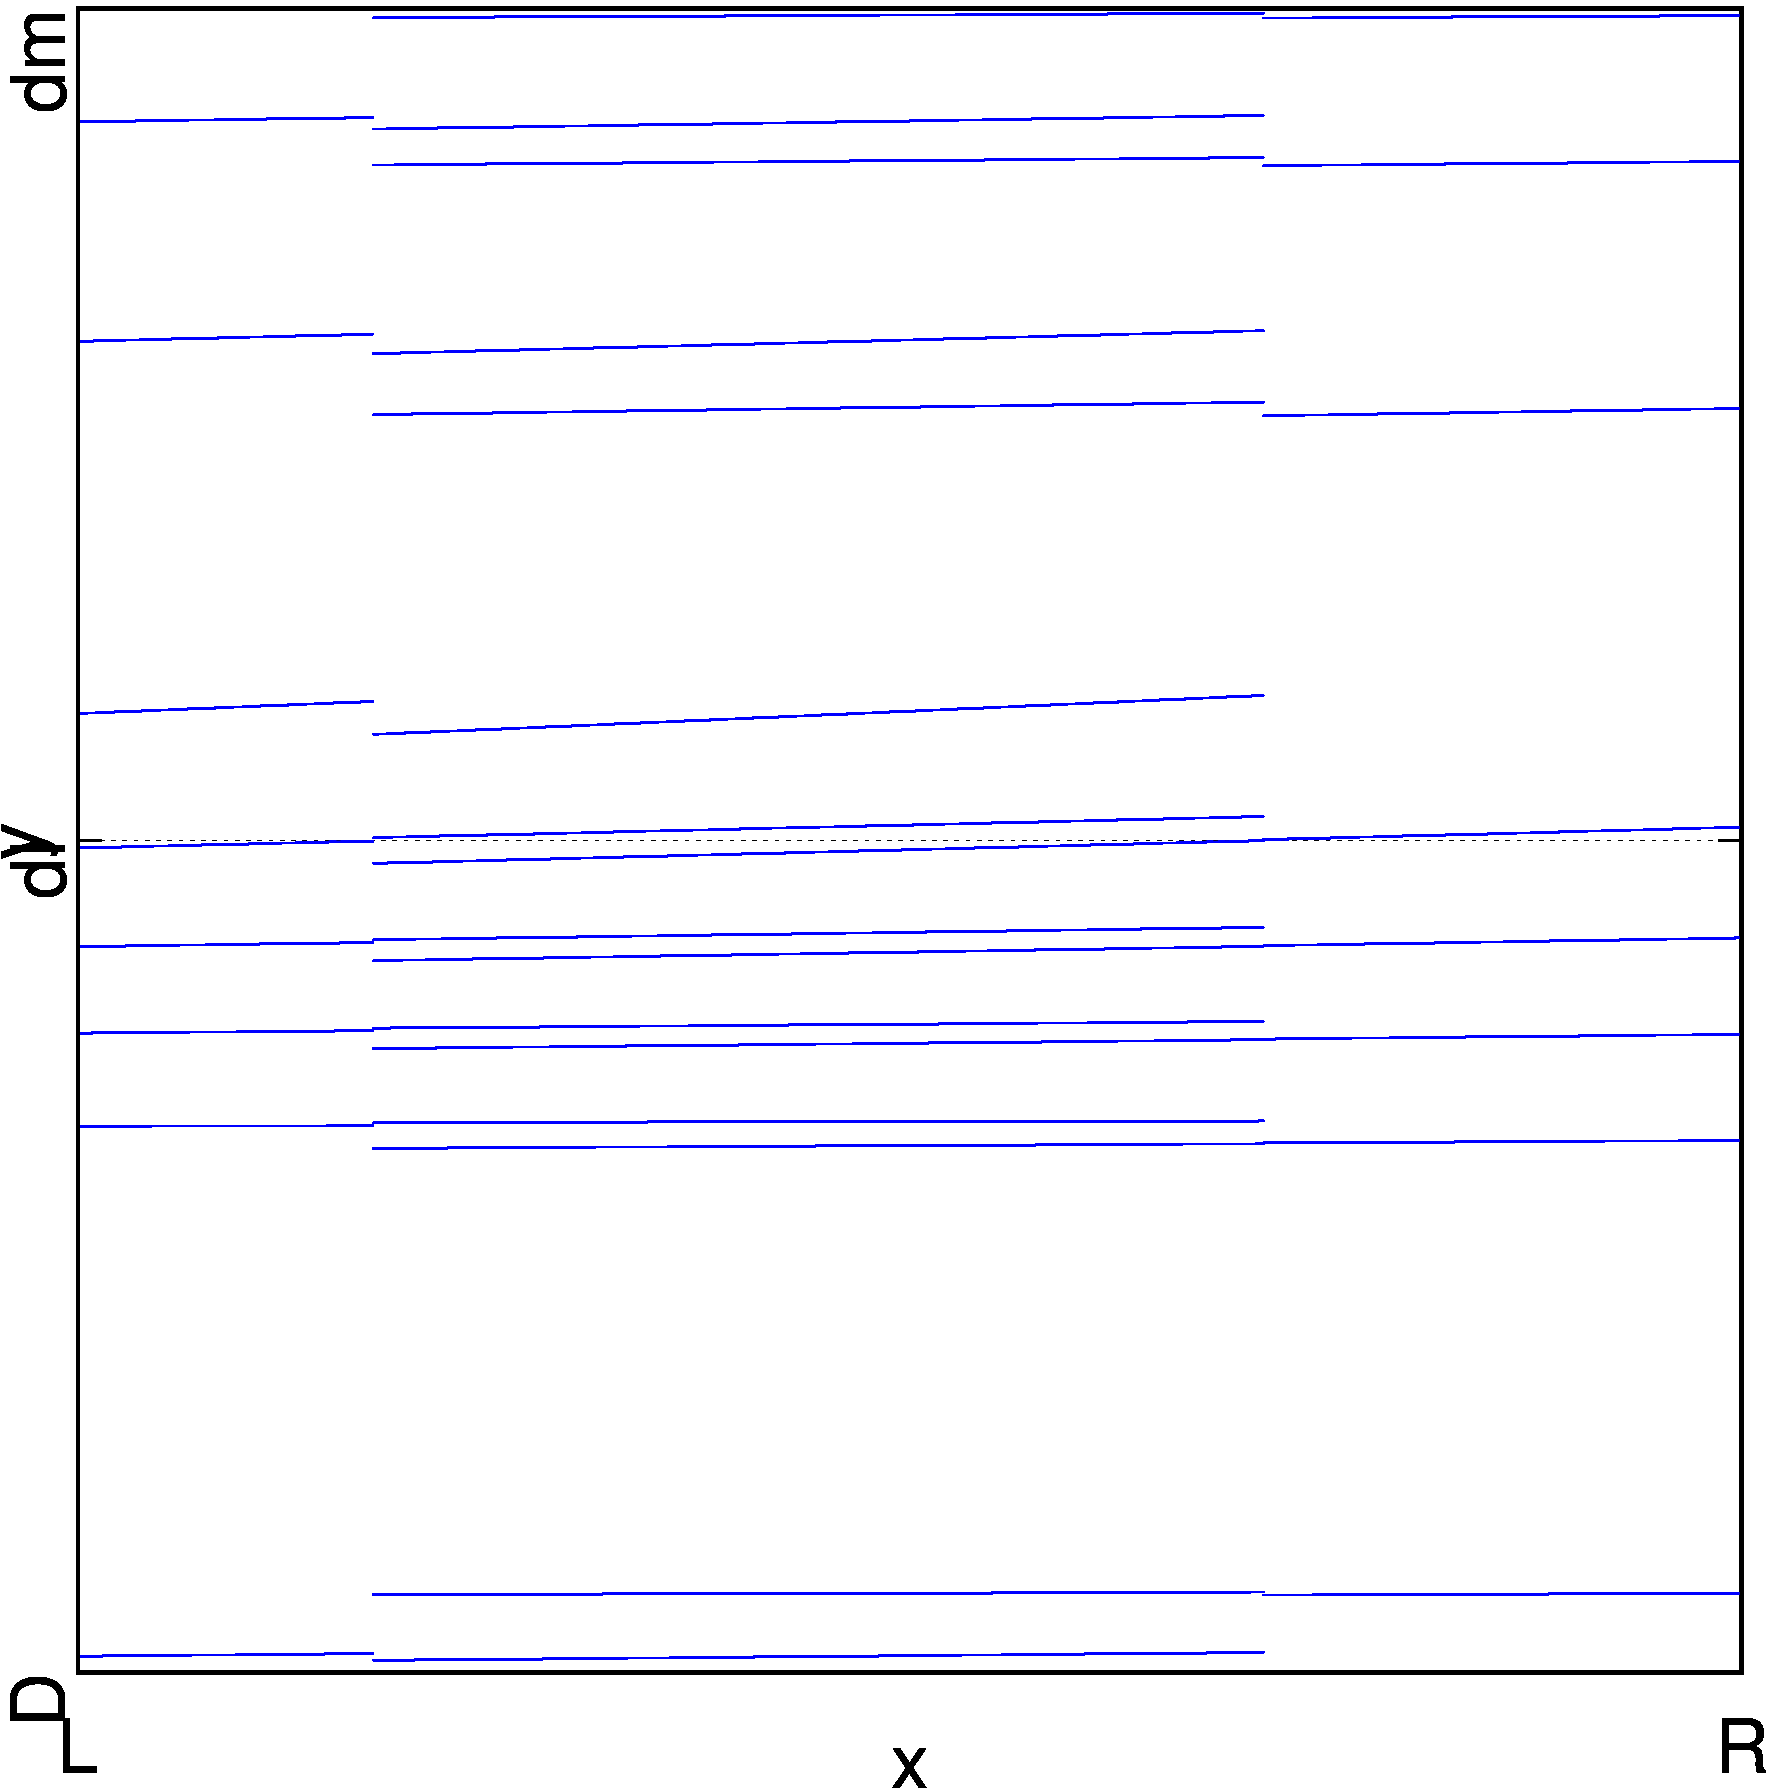
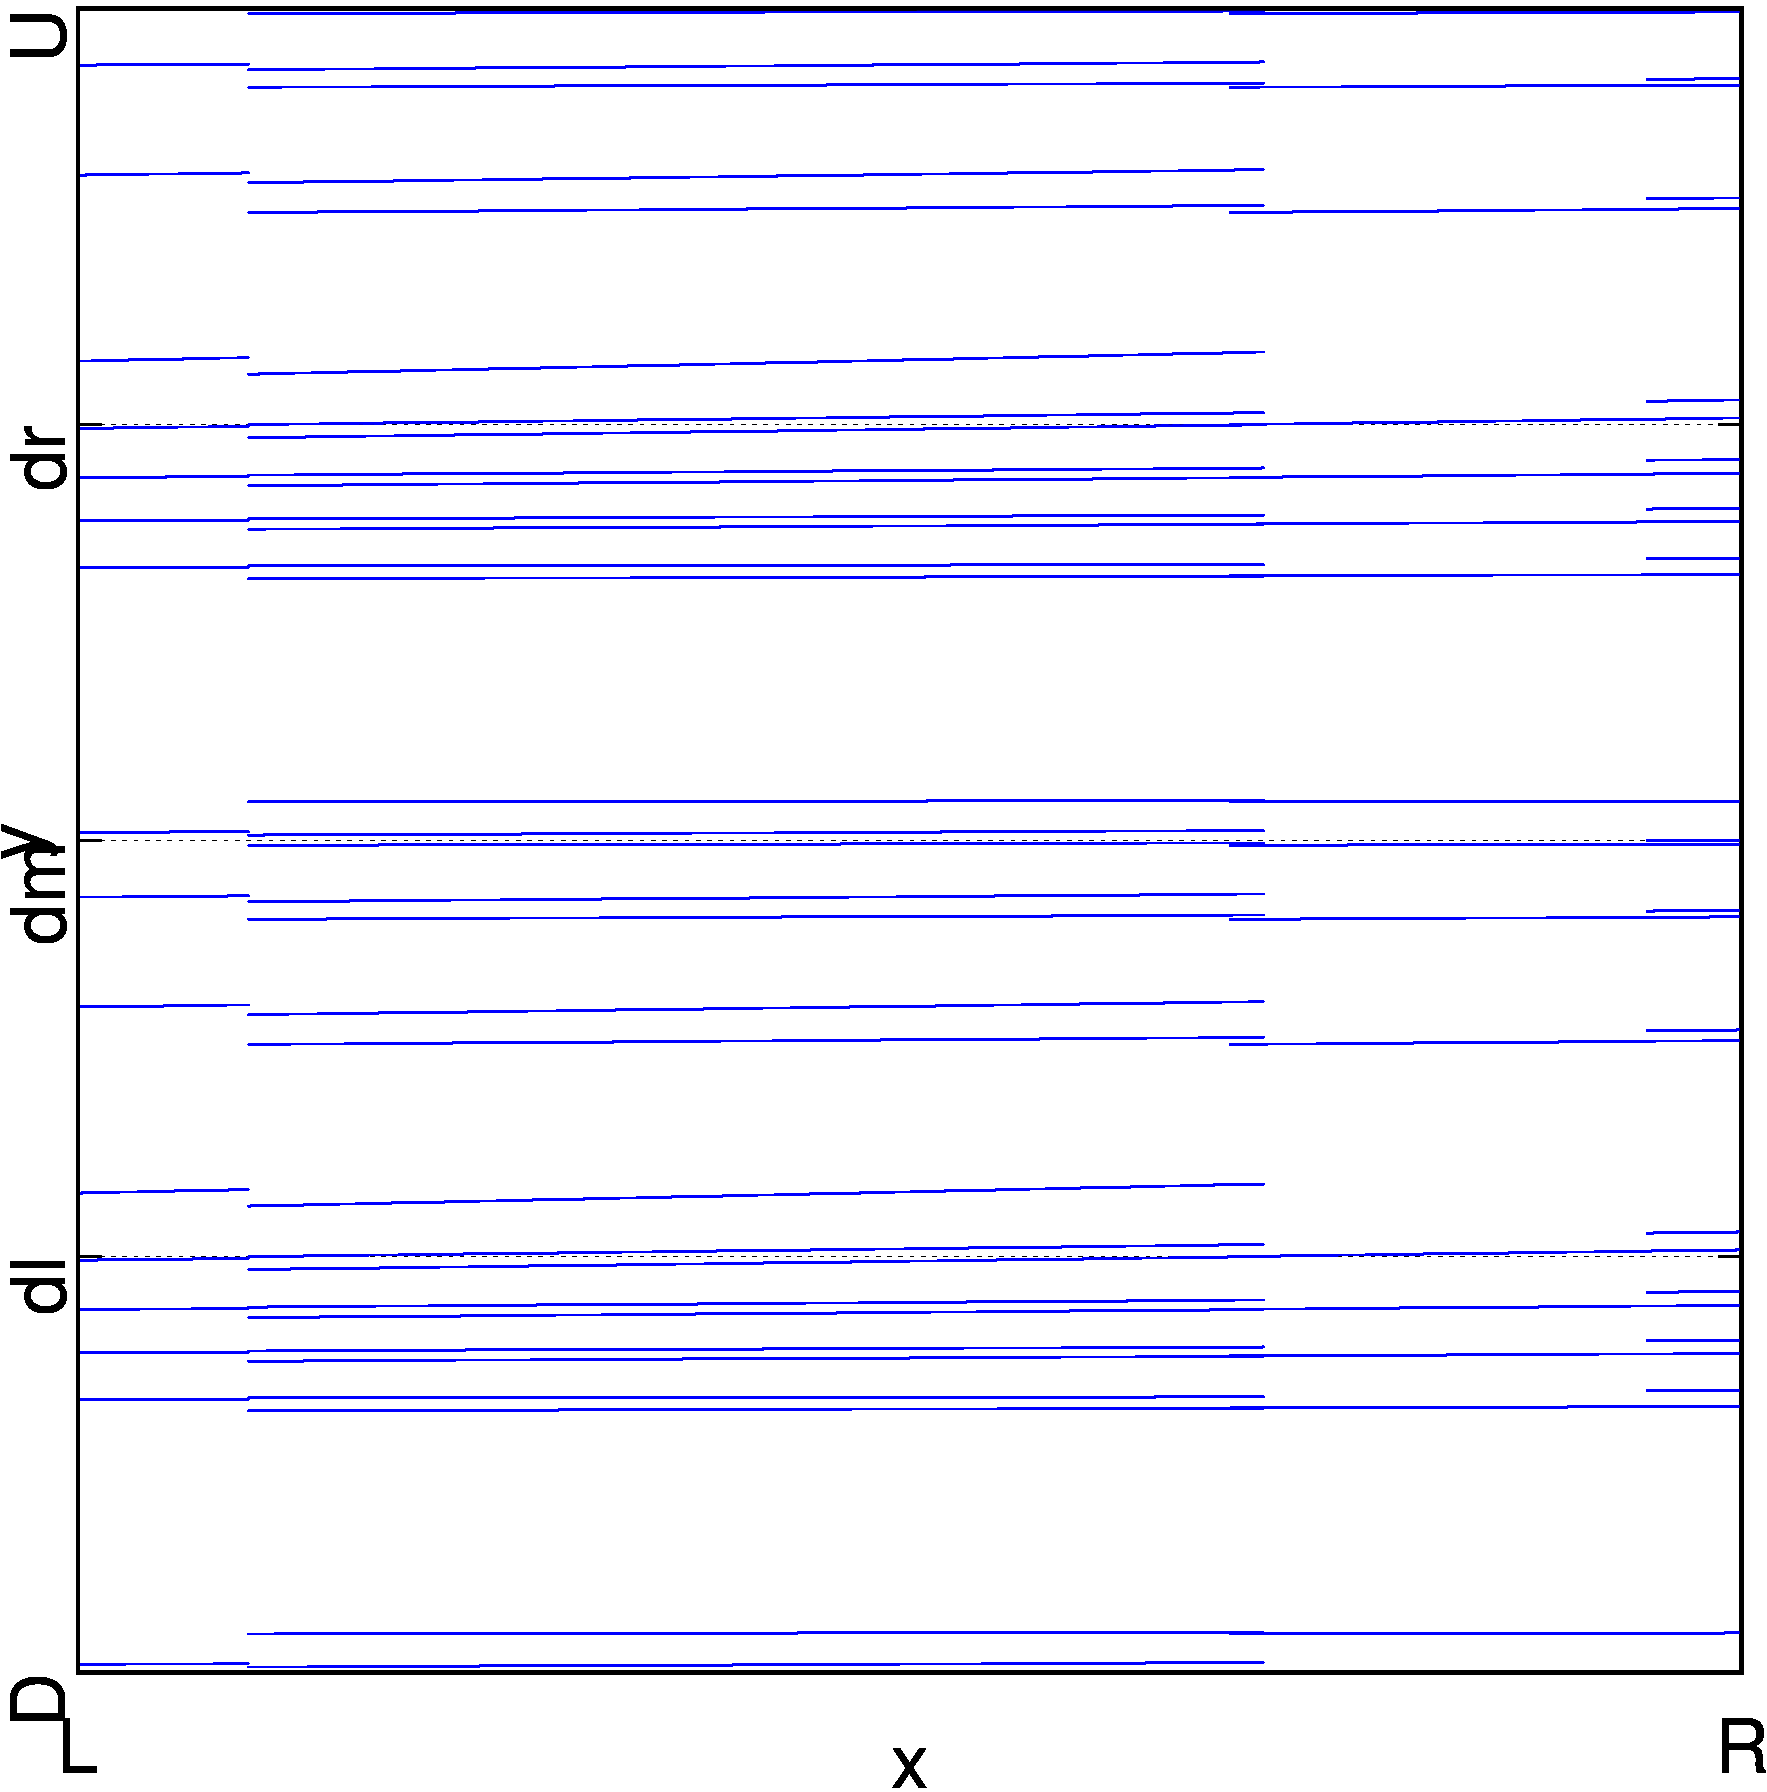
add bifurcation diagreams for lower border of C16

diff --git a/Report/Sections/60_FinalModel/50_bifurcations.tex b/Report/Sections/60_FinalModel/50_bifurcations.tex
@@ -1,0 +1,42 @@
+\section{Bifurcations}
+
+
+\begin{figure}
+    \centering
+    \begin{subfigure}{0.4\textwidth}
+        \centering
+        \includegraphics[width=\textwidth]{60_Final/2D_Regions_Whole/result-halved.png}
+        \caption{Complete Parameter Region}
+        \label{fig:final.regions.whole.halved}
+    \end{subfigure}
+    \begin{subfigure}{0.4\textwidth}
+        \centering
+        \includegraphics[width=\textwidth]{60_Final/2D_Regions_CandD16/result-halved.png}
+        \caption{Only showing $C_{16}$ and $D_{16}$}
+        \label{fig:final.regions.CandD16.halved}
+    \end{subfigure}
+    \caption{2D Period Regions of Halved Final Model}
+\end{figure}
+
+\todo{what bifurcations (which borders) in type A / type B regions}
+
+\subsection{Type A Parameter Regions}
+
+\subsubsection{$C_{16}^\downarrow$}
+
+\begin{figure}
+    \centering
+    \begin{subfigure}{0.4\textwidth}
+        \centering
+        \includegraphics[width=\textwidth]{60_Final/1D_Bif_LCD16/result.png}
+        \caption{Complete}
+        \label{fig:final.regions.whole.halved}
+    \end{subfigure}
+    \begin{subfigure}{0.4\textwidth}
+        \centering
+        \includegraphics[width=\textwidth]{60_Final/1D_Bif_LCD16_Zoomed/result.png}
+        \caption{Zoomed in to Border $\A\B$}
+        \label{fig:final.regions.CandD16.halved}
+    \end{subfigure}
+    \caption{1D Bifurcation Diagram of $C_{16}^\downarrow$}
+\end{figure}

diff --git a/Report/Sections/60_FinalModel/00_final_model.tex b/Report/Sections/60_FinalModel/00_final_model.tex
@@ -1,6 +1,24 @@
 \chapter{Final Model}
 
-\todo{model definition}
+\input{Sections/60_FinalModel/10_definition.tex}
+
+
+\begin{figure}
+    \centering
+    \begin{subfigure}{0.4\textwidth}
+        \centering
+        \includegraphics[width=\textwidth]{60_Final/2D_Period_Whole_onlyP16/result.png}
+        \caption{Full Model}
+        \label{fig:final.period.whole.full}
+    \end{subfigure}
+    \begin{subfigure}{0.4\textwidth}
+        \centering
+        \includegraphics[width=\textwidth]{60_Final/2D_Period_Whole_onlyP16/result-halved.png}
+        \caption{Halved Model}
+        \label{fig:final.period.whole.halved}
+    \end{subfigure}
+    \caption{2D Scans of Periods of Final Model}
+\end{figure}
 
 \todo{parameter effects table (comparison to og table), illustration, etc.}
 
@@ -12,4 +30,4 @@
 
 \todo{cobwebs along one chain}
 
-\todo{what bifurcations (which borders) in type A / type B regions}
+\input{Sections/60_FinalModel/50_bifurcations.tex}

diff --git a/Report/Sections/60_FinalModel/10_definition.tex b/Report/Sections/60_FinalModel/10_definition.tex
@@ -1,0 +1,3 @@
+\section{Model Definition}
+
+\todo{model definition}
